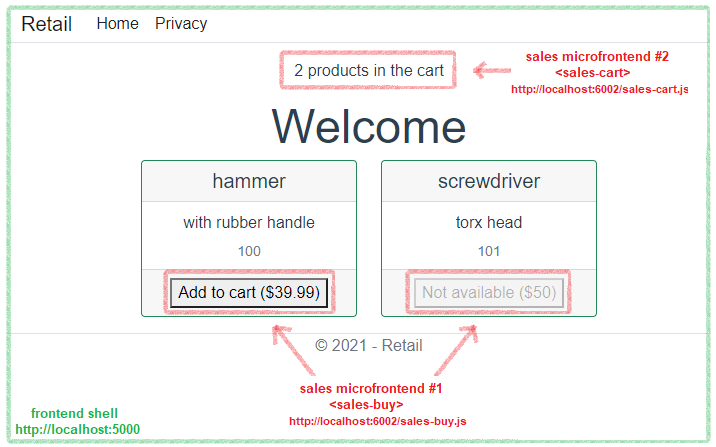
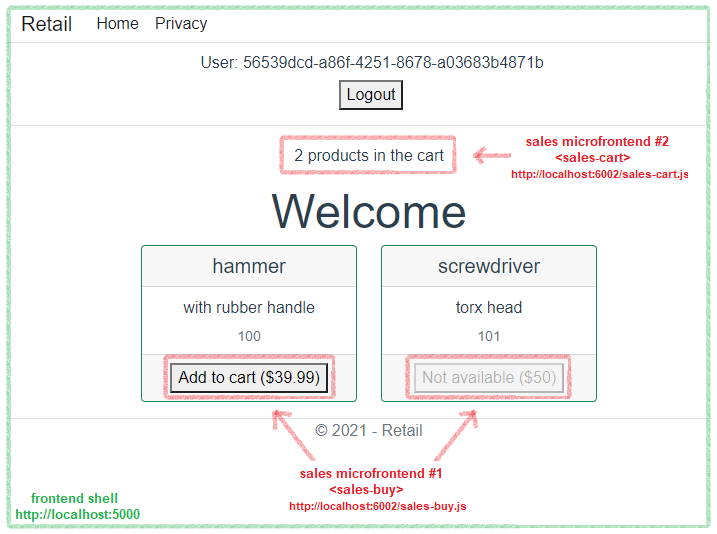
Update README

diff --git a/README.md b/README.md
@@ -6,6 +6,7 @@ At some point it may evolve into coarse-grained microservices architecture.
 RabbitMQ with custom configuration. Transport for MassTransit service bus.
 ### Retail.Frontend
 SPA in Vue.js 2. Combines multiple microfrontends into a single UI for the application.  
+Uses OIDC-Client to obtain access and identity tokens.  
 ![Microfrontends](01_microfrontends.png) 
 ### Retail.Sales
 ASP.NET Core Web API with MassTransit. Uses saga to process order in each state.
@@ -26,7 +27,7 @@ ASP.NET Core Web API. Simple CRUD for products information. Uses Dapper with rel
 ### Retail.Catalog.Database
 PostgreSQL relational database.
 ### Retail.Catalog.Frontend
-Svelte UI for product catalog CRUD operations.
+Svelte UI for product catalog CRUD operations. Uses no-auth endpoint.
 ### Retail.Recommendations [TODO]
 MassTransit console app. Implements "You may also like" feature for products with graph database.
 ### Retail.Recommendations.Database
@@ -34,7 +35,7 @@ Neo4j graph database.
 ### Retail.Search [TODO]
 ELK stack. Provides full-text search for various services.
 ### Retail.Auth
-IdentityServer4. Handles authentication and authorization with RSA256 signed JWT.  
+IdentityServer4. Handles OICD authentication and OAuth 2.0 authorization with RSA256 signed JWT.  
 RSA is preffered over HMAC, as such tokens can be verified by other services which cached Auth's public key.
 ### Retail.Http
 Example HTTP requests to various services.
